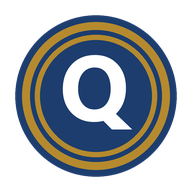
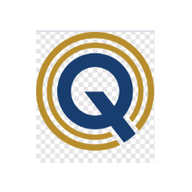
s60

diff --git a/index.html b/index.html
@@ -14,15 +14,15 @@
 <meta name="format-detection" content="telephone=no">
 
 <!-- Apple touch icons (home screen on iPhone/iPad) -->
-<link rel="apple-touch-icon" href="assets/icon-180.png?v=9">
-<link rel="apple-touch-icon" sizes="180x180" href="assets/icon-180.png?v=9">
-<link rel="apple-touch-icon" sizes="192x192" href="assets/icon-192.png?v=9">
+<link rel="apple-touch-icon" href="assets/icon-180.png?v=10">
+<link rel="apple-touch-icon" sizes="180x180" href="assets/icon-180.png?v=10">
+<link rel="apple-touch-icon" sizes="192x192" href="assets/icon-192.png?v=10">
 
 <!-- Favicons -->
-<link rel="icon" type="image/png" sizes="32x32" href="assets/icon-32.png?v=9">
-<link rel="icon" type="image/png" sizes="16x16" href="assets/icon-16.png?v=9">
-<link rel="icon" type="image/png" sizes="192x192" href="assets/icon-192.png?v=9">
-<link rel="shortcut icon" href="assets/icon-32.png?v=9">
+<link rel="icon" type="image/png" sizes="32x32" href="assets/icon-32.png?v=10">
+<link rel="icon" type="image/png" sizes="16x16" href="assets/icon-16.png?v=10">
+<link rel="icon" type="image/png" sizes="192x192" href="assets/icon-192.png?v=10">
+<link rel="shortcut icon" href="assets/icon-32.png?v=10">
 
 <!-- PWA manifest (Android / desktop Chrome) -->
 <link rel="manifest" href="manifest.json">

diff --git a/_build_icons.py b/_build_icons.py
@@ -1,85 +1,22 @@
-"""Generate PWA / apple-touch-icon PNGs for Quinaptis.
+"""Generate favicons/apple-touch-icons from s60 (the Quinaptis Q artwork).
 
-Draws a clean symmetric icon programmatically: navy disc + double gold
-ring + white Q. This is the favicon/home-screen companion to the wide
-brand logo — the wide logo's asymmetric tail can't be reliably cropped
-into a square without clipping, so we render a purpose-built icon.
+Take _q_source.png (= s60), trim transparent borders, centre on a square
+canvas with enough padding so it renders cleanly at every size.
 """
-from PIL import Image, ImageDraw, ImageFont
+from PIL import Image
 import os
 
 HERE = os.path.dirname(os.path.abspath(__file__))
 OUT = os.path.join(HERE, 'assets')
-
-NAVY = (28, 61, 110, 255)       # #1C3D6E
-GOLD = (181, 138, 46, 255)      # #B58A2E
-WHITE = (255, 255, 255, 255)
-
-
-def _font(size):
-    for path in (
-        r'C:\Windows\Fonts\segoeuib.ttf',   # Segoe UI Bold
-        r'C:\Windows\Fonts\arialbd.ttf',    # Arial Bold
-        r'C:\Windows\Fonts\calibrib.ttf',   # Calibri Bold
-    ):
-        if os.path.exists(path):
-            try:
-                return ImageFont.truetype(path, size)
-            except Exception:
-                continue
-    return ImageFont.load_default()
-
-
-def make_icon(size):
-    # Supersample for smooth edges on small sizes
-    s = 4 if size < 256 else 2
-    S = size * s
-    canvas = Image.new('RGBA', (S, S), (0, 0, 0, 0))
-    draw = ImageDraw.Draw(canvas)
-
-    # Navy filled disc — leaves a transparent margin so iOS rounded corners
-    # never bite into the artwork.
-    margin = int(S * 0.08)
-    draw.ellipse([margin, margin, S - margin - 1, S - margin - 1], fill=NAVY)
-
-    # Outer gold ring
-    thick_outer = max(2, S // 24)
-    inset_outer = margin + max(2, S // 28)
-    draw.ellipse(
-        [inset_outer, inset_outer, S - inset_outer - 1, S - inset_outer - 1],
-        outline=GOLD,
-        width=thick_outer,
-    )
-
-    # Inner gold ring (second, thinner ring)
-    thick_inner = max(2, S // 36)
-    inset_inner = inset_outer + thick_outer + max(2, S // 40)
-    draw.ellipse(
-        [inset_inner, inset_inner, S - inset_inner - 1, S - inset_inner - 1],
-        outline=GOLD,
-        width=thick_inner,
-    )
-
-    # White "Q" centred within the inner ring
-    target_h = int(S * 0.48)
-    font = _font(target_h)
-    try:
-        bbox = draw.textbbox((0, 0), 'Q', font=font)
-        tw = bbox[2] - bbox[0]
-        th = bbox[3] - bbox[1]
-        tx = (S - tw) // 2 - bbox[0]
-        ty = (S - th) // 2 - bbox[1]
-    except AttributeError:
-        tw, th = draw.textsize('Q', font=font)
-        tx = (S - tw) // 2
-        ty = (S - th) // 2
-    ty -= max(1, S // 50)
-    draw.text((tx, ty), 'Q', font=font, fill=WHITE)
-
-    return canvas.resize((size, size), Image.LANCZOS)
+SRC = os.path.join(OUT, '_q_source.png')
 
 
 def main():
+    q = Image.open(SRC).convert('RGBA')
+    bbox = q.getbbox()
+    if bbox:
+        q = q.crop(bbox)
+
     sizes = {
         'icon-16.png': 16,
         'icon-32.png': 32,
@@ -87,9 +24,21 @@ def main():
         'icon-192.png': 192,
         'icon-512.png': 512,
     }
+
     for name, sz in sizes.items():
-        icon = make_icon(sz)
-        icon.save(os.path.join(OUT, name))
+        # iOS squircles its apple-touch-icons, so leave room.
+        pad = 0.15 if sz >= 180 else 0.05
+        canvas = Image.new('RGBA', (sz, sz), (0, 0, 0, 0))
+        inner = int(sz * (1 - 2 * pad))
+        qw, qh = q.size
+        scale = min(inner / qw, inner / qh)
+        nw = max(1, int(qw * scale))
+        nh = max(1, int(qh * scale))
+        resized = q.resize((nw, nh), Image.LANCZOS)
+        px = (sz - nw) // 2
+        py = (sz - nh) // 2
+        canvas.paste(resized, (px, py), resized)
+        canvas.save(os.path.join(OUT, name))
         print(f'{name}: {sz}x{sz}')
     print('Done.')
 
